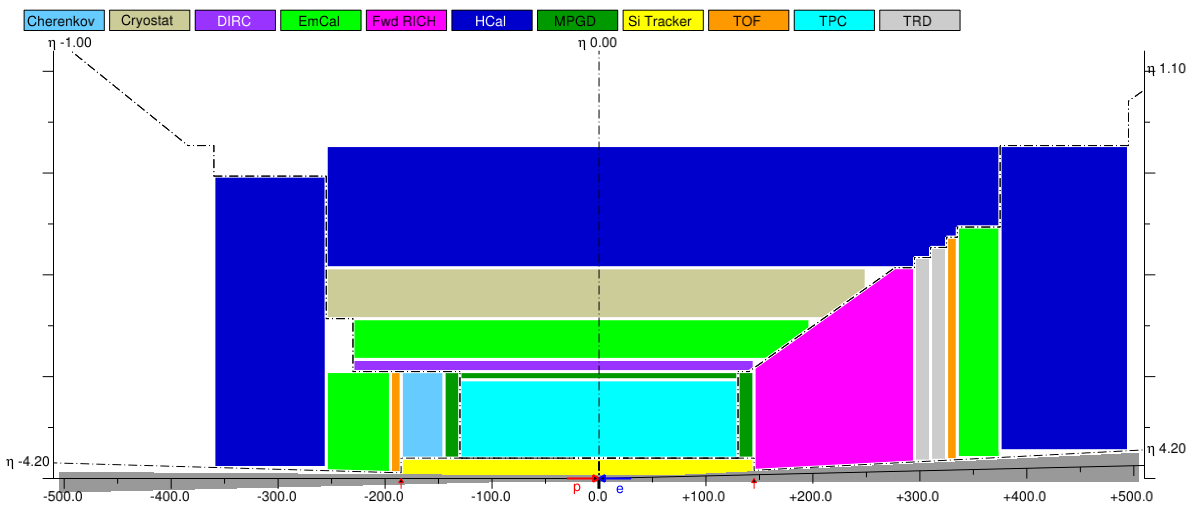
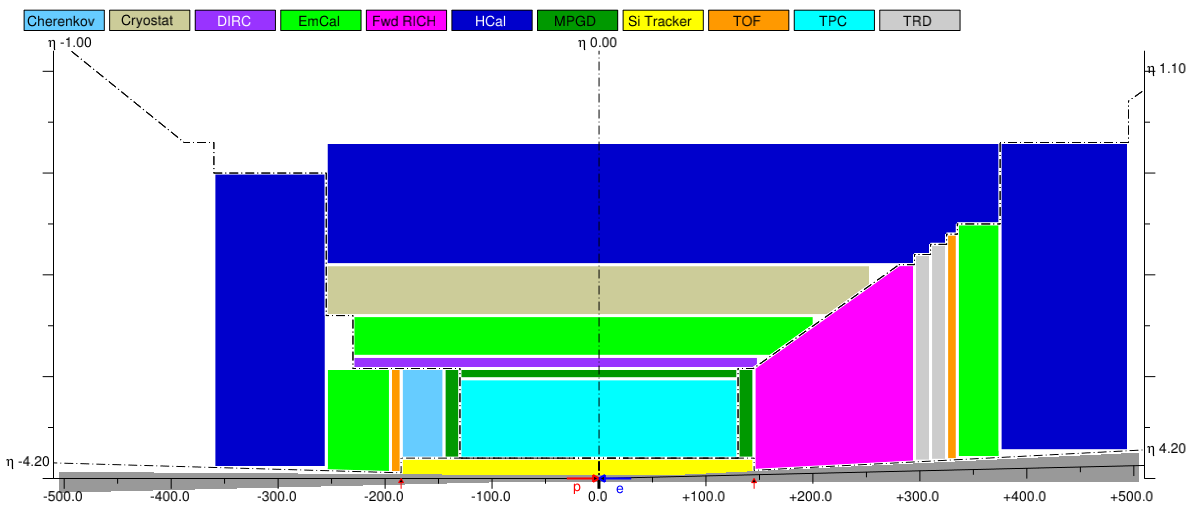
scripts/EIC-IR1-XX-v01[fg].C update

diff --git a/scripts/EIC-IR1-XX-v01g.C b/scripts/EIC-IR1-XX-v01g.C
@@ -24,11 +24,12 @@
     auto mid = eic->mid(); mid->offset( 20 * etm::cm);
       
     mid->add("Si Tracker",20 * etm::cm);
+    mid->gap(              8 * etm::cm);
     for(unsigned iq=0; iq<3; iq++) {
       mid->gap(           10 * etm::cm);
       mid->add("MPGD",    10 * etm::cm);
     } //for iq
-    mid->add("DIRC",      20 * etm::cm)->trim(1.0, 0.3);//->highlight();
+    mid->add("DIRC",      12 * etm::cm)->trim(1.0, 0.3);//->highlight();
     mid->add("EmCal",     40 * etm::cm);//->highlight();
     mid->add("Cryostat",  50 * etm::cm)->trim(1.0, 0.6);
     mid->add("HCal",     120 * etm::cm)->trim(0.0, 1.00);//->highlight();;

diff --git a/scripts/EIC-IR1-XX-v01f.C b/scripts/EIC-IR1-XX-v01f.C
@@ -23,8 +23,8 @@
   {
     auto mid = eic->mid(); mid->offset( 20 * etm::cm);
       
-    mid->add("TPC",       77 * etm::cm);//->highlight();
-    mid->add("MPGD",       8 * etm::cm); 
+    mid->add("TPC",       78 * etm::cm);//->highlight();
+    mid->add("MPGD",      10 * etm::cm); 
     mid->add("DIRC",      12 * etm::cm)->trim(1.0, 0.3);//->highlight();
     //mid->add("MPGD",       5 * etm::cm);
     mid->add("EmCal",     40 * etm::cm);//->highlight();
